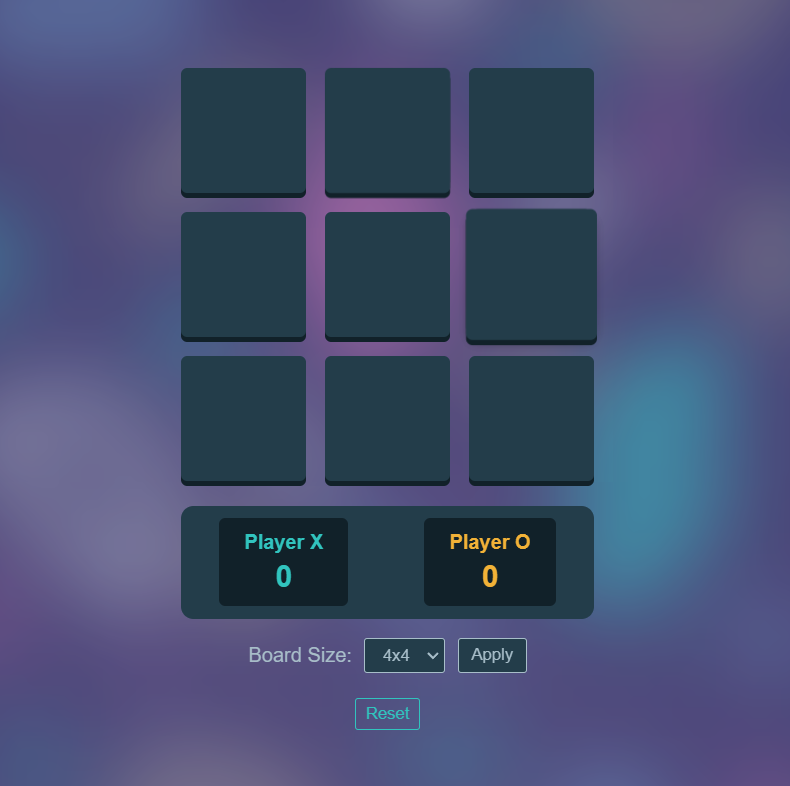
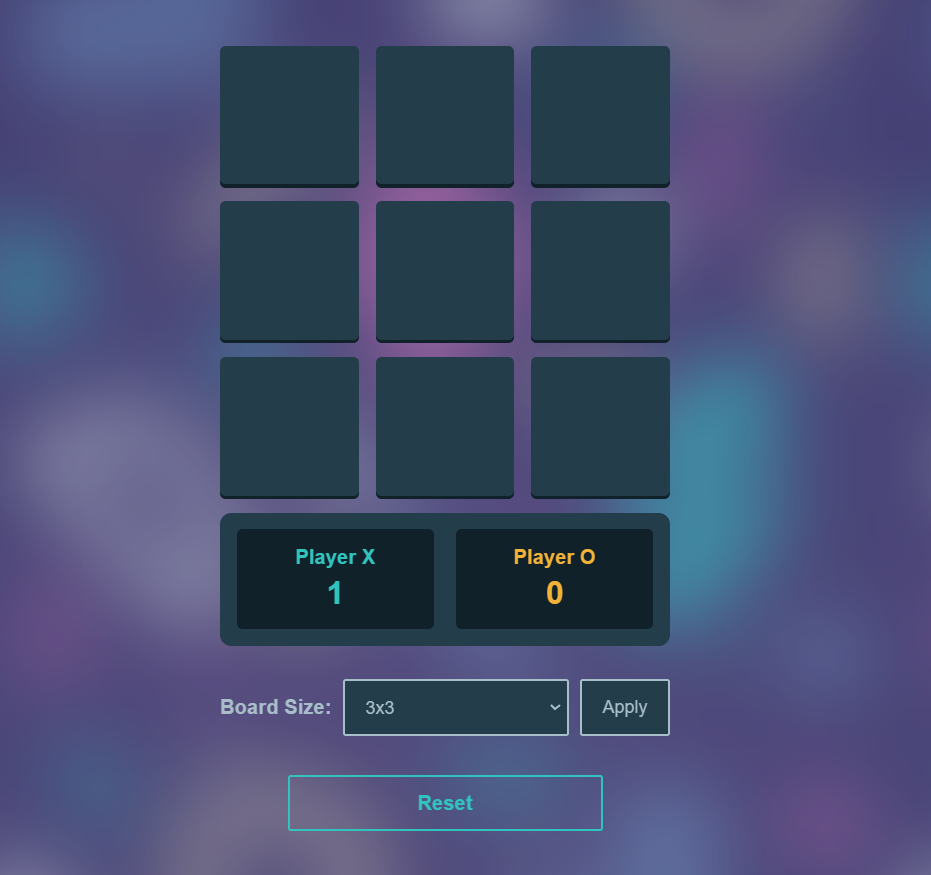
Add files via upload

diff --git a/style.css b/style.css
@@ -12,37 +12,40 @@
 * {
   box-sizing: border-box;
   margin: 0;
+  padding: 0;
 }
 
 html {
   font-size: 62.5%;
+  /* 10px base size */
 }
 
 body {
   font-family: Arial, sans-serif;
+  overflow-x: hidden;
+  touch-action: manipulation;
+  /* Improves touch response */
 }
 
 .container {
   font-size: 1.6rem;
-  font-family: Arial, sans-serif;
   display: flex;
   flex-direction: column;
   align-items: center;
   justify-content: center;
-  padding: 50px;
+  padding: 2rem 1.5rem;
   min-height: 100vh;
-  /*background-color: var(--color-dark-blue);*/
   background-size: cover;
   backdrop-filter: blur(5px);
-  overflow: hidden;
+  position: relative;
 }
 
 .container:before {
   content: "";
-  position: absolute;
+  position: fixed;
   width: 130%;
   height: 130%;
-  opacity: .8;
+  opacity: 0.8;
   background: url(./pattern.jpg);
   background-size: cover;
   filter: blur(35px);
@@ -51,10 +54,14 @@ body {
 
 .board {
   display: grid;
-  grid-template-columns: repeat(var(--grid-rows), 100px);
-  grid-template-rows: repeat(var(--grid-rows), 100px);
+  grid-template-columns: repeat(var(--grid-rows), 1fr);
+  grid-template-rows: repeat(var(--grid-rows), 1fr);
+  gap: clamp(0.8rem, 2vw, 1.5rem);
   margin: 0 auto;
-  gap: 1.5rem;
+  width: min(90vw, 400px);
+  /* Responsive width */
+  aspect-ratio: 1/1;
+  /* Keep square */
 }
 
 .cell {
@@ -63,18 +70,23 @@ body {
   align-items: center;
   justify-content: center;
   cursor: pointer;
-  font-size: 3em;
+  font-size: clamp(2.4rem, 6vw, 3.2rem);
+  /* Responsive font size */
   color: var(--color-aqua);
   background-color: var(--color-blue);
   border-radius: var(--border-radius);
   isolation: isolate;
-  font-family: 'Rubik Mono One', sans-serif;
-  transition: all .3s ease-in-out;
+  font-family: 'Rubik Mono One', Arial, sans-serif;
+  transition: all 0.2s ease-in-out;
+  aspect-ratio: 1/1;
+  /* Keep cell square */
+  -webkit-tap-highlight-color: transparent;
+  /* Remove tap highlight on mobile */
+}
 
-  &:hover {
-    transform: scale(1.05);
-    box-shadow: 0 4px 8px rgba(0, 0, 0, 0.2);
-  }
+.cell:hover {
+  transform: scale(1.03);
+  box-shadow: 0 4px 8px rgba(0, 0, 0, 0.2);
 }
 
 .cell--X {
@@ -88,6 +100,8 @@ body {
 .value {
   z-index: 1;
   user-select: none;
+  pointer-events: none;
+  /* Prevents selection issues */
 }
 
 .cell:before {
@@ -95,7 +109,7 @@ body {
   position: absolute;
   height: 100%;
   width: 100%;
-  bottom: -0.4rem;
+  bottom: -0.3rem;
   border-radius: calc(var(--border-radius) / 2);
   background-color: var(--color-darker-blue);
 }
@@ -108,97 +122,125 @@ body {
   border-radius: calc(var(--border-radius) / 2);
   background-color: var(--color-blue);
   transition: all 0.3s;
+  z-index: 0;
 }
 
 #reset {
-  display: block;
-  margin: 20px auto;
   cursor: pointer;
   background: none;
   outline: none;
-  border: 1px solid var(--color-aqua);
+  border: 2px solid var(--color-aqua);
   border-radius: calc(var(--border-radius) / 4);
-  padding: .4rem .8rem;
+  padding: 1rem 2rem;
   color: var(--color-aqua);
+  font-size: clamp(1.6rem, 3vw, 1.8rem);
+  font-weight: bold;
+  width: 100%;
+  max-width: 28rem;
+  margin-top: 2rem;
+  transition: transform 0.2s ease, background-color 0.2s ease;
+  height: 5rem;
 }
 
+#reset:active {
+  transform: scale(0.97);
+}
 
 .game-controls {
   display: flex;
   flex-direction: column;
   align-items: center;
-  margin-top: 20px;
-  width: 330px;
+  width: min(90vw, 400px);
+  margin-bottom: 2rem;
 }
 
 .board-size-control {
-  margin-bottom: 5px;
+  margin: 1.5rem 0;
   display: flex;
   align-items: center;
-  gap: 10px;
+  justify-content: space-between;
+  width: 100%;
+  flex-wrap: wrap;
+  gap: 1rem;
 }
 
 .board-size-control label {
   color: var(--color-light-blue);
-  font-size: 1.6rem;
+  font-size: clamp(1.6rem, 3vw, 1.8rem);
+  font-weight: bold;
+  margin-right: auto;
 }
 
 .board-size-control select {
-  padding: 5px 10px;
+  padding: 1rem 1.5rem;
   border-radius: calc(var(--border-radius) / 4);
   background-color: var(--color-blue);
   color: var(--color-light-blue);
-  border: 1px solid var(--color-light-blue);
+  border: 2px solid var(--color-light-blue);
   outline: none;
   cursor: pointer;
+  font-size: clamp(1.5rem, 3vw, 1.6rem);
+  flex: 1;
+  min-width: 10rem;
+  height: 5rem;
 }
 
 .board-size-control button {
-  padding: 5px 10px;
+  padding: 1rem 1.5rem;
   border-radius: calc(var(--border-radius) / 4);
   background-color: var(--color-blue);
   color: var(--color-light-blue);
-  border: 1px solid var(--color-light-blue);
+  border: 2px solid var(--color-light-blue);
   cursor: pointer;
+  font-size: clamp(1.5rem, 3vw, 1.6rem);
+  flex: 0 0 auto;
+  min-width: 8rem;
+  transition: transform 0.2s ease;
+  height: 5rem;
+}
+
+.board-size-control button:active {
+  transform: scale(0.97);
 }
 
 .score-board {
   display: flex;
-  justify-content: space-around;
-  gap: 20px;
+  justify-content: space-between;
+  gap: clamp(1rem, 3vw, 2rem);
   width: 100%;
-  margin-bottom: 15px;
-  padding: 10px;
+  padding: 1.5rem;
   background-color: var(--color-blue);
   border-radius: var(--border-radius);
+  margin: 1.5rem 0;
 }
 
 .player-score {
   display: flex;
   flex-direction: column;
   align-items: center;
-  padding: 10px 20px;
+  padding: clamp(1rem, 3vw, 1.5rem) clamp(1.5rem, 4vw, 2.5rem);
   border-radius: calc(var(--border-radius) / 2);
   background-color: var(--color-darker-blue);
+  flex: 1;
 }
 
 .player-x {
   color: var(--color-aqua);
   font-weight: bold;
-  font-size: 1.6rem;
+  font-size: clamp(1.6rem, 3vw, 1.8rem);
 }
 
 .player-o {
   color: var(--color-orange);
   font-weight: bold;
-  font-size: 1.6rem;
+  font-size: clamp(1.6rem, 3vw, 1.8rem);
 }
 
 #score-x,
 #score-o {
-  font-size: 2.4rem;
+  font-size: clamp(2.4rem, 5vw, 2.8rem);
   font-weight: bold;
-  margin-top: 5px;
+  margin-top: 0.5rem;
 }
 
 #score-x {
@@ -209,6 +251,54 @@ body {
   color: var(--color-orange);
 }
 
-#reset {
-  margin-top: 15px;
+/* Media queries for better mobile responsiveness */
+@media (max-width: 768px) {
+  .container {
+    padding: 1.5rem 1rem;
+  }
+
+  .board-size-control {
+    flex-wrap: wrap;
+  }
+}
+
+@media (max-width: 480px) {
+  .board-size-control {
+    flex-direction: column;
+    align-items: stretch;
+  }
+
+  .board-size-control label {
+    margin-right: 0;
+    margin-bottom: 0.5rem;
+    text-align: center;
+  }
+
+  .player-score {
+    padding: 1rem 1.5rem;
+  }
+
+  #reset,
+  .board-size-control select,
+  .board-size-control button {
+    width: 100%;
+    margin: 0.5rem 0;
+  }
+}
+
+/* Add missing board element */
+.container .board {
+  margin-top: 2rem;
+}
+
+
+.cell:active {
+  transform: scale(0.98);
+}
+
+/* Improve accessibility */
+select:focus,
+button:focus {
+  outline: 2px solid var(--color-aqua);
+  outline-offset: 2px;
 }
